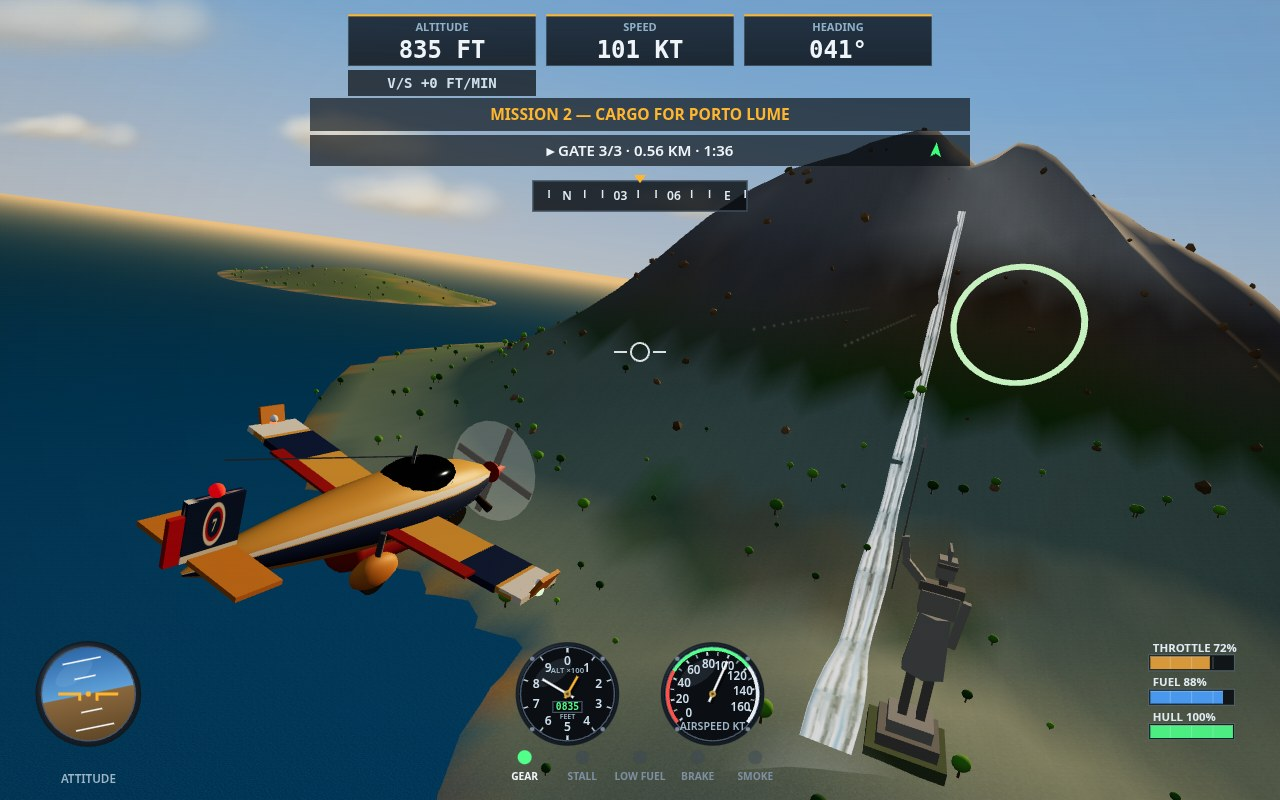
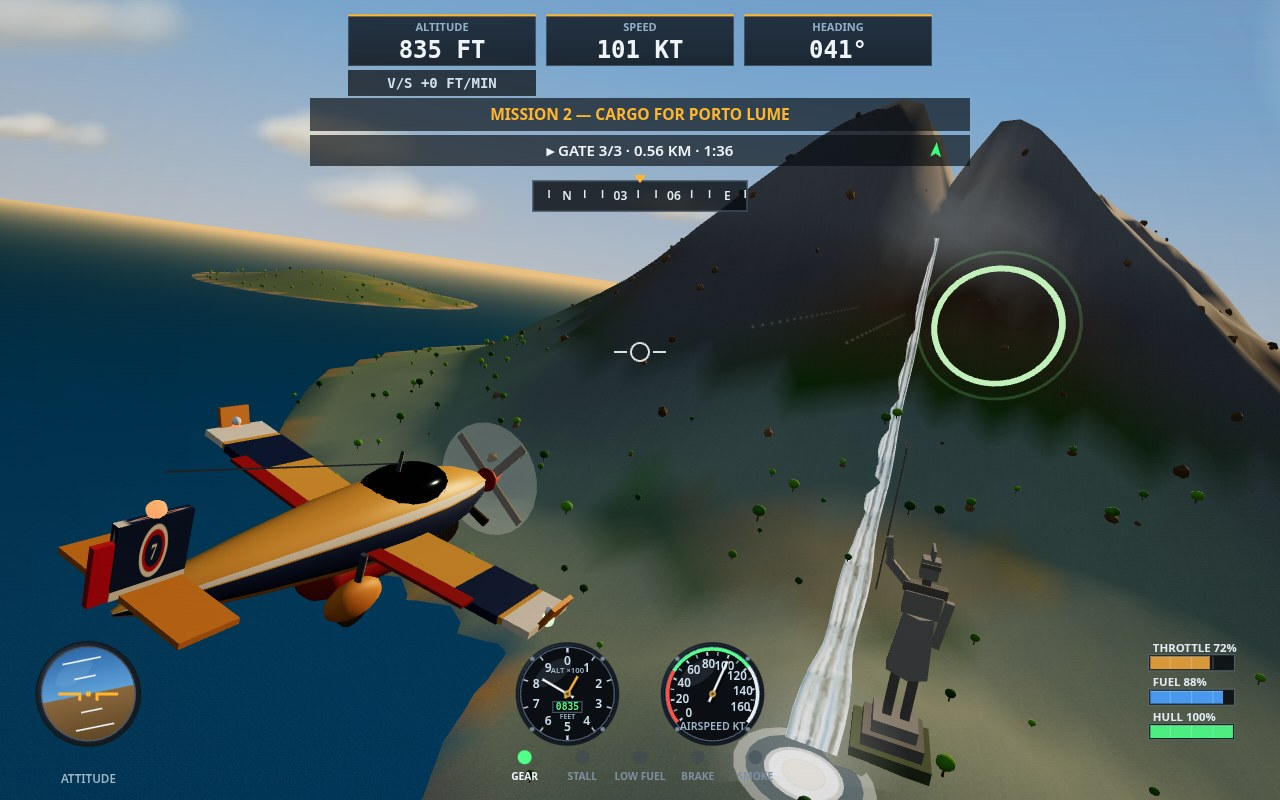
v21 last residuals: bite the skyline at thumbnail size, un-shrink the cargo Petrel, surface the plunge pool — velaSkyline teeth now bite both ways (crests 0.24, gullies carved -0.105, wider envelope) with a summit-gated SE-rim band so the cover's peak reads jagged in the 300px shrink, not just at fu

diff --git a/game/src/renderer-3d.js b/game/src/renderer-3d.js
@@ -348,9 +348,9 @@ export function buildTerrainMesh(detailTex) {
       const ao = (1 - Math.min(0.32, hollow * 0.011)) * (0.95 + 0.05 * Math.min(1, h / 120));
       const sunFace = normals.getX(i) * SUN.x + normals.getY(i) * SUN.y + normals.getZ(i) * SUN.z;
       const lit = Math.max(0, sunFace);
-      tmp.multiplyScalar((0.84 + 0.28 * lit + vg * 0.16 * (1 - lit)) * ao);
+      tmp.multiplyScalar((0.84 + 0.28 * lit + vg * 0.23 * (1 - lit)) * ao);
       tmp.lerp(SUN_WARM, lit * lit * 0.15);
-      tmp.lerp(SHADE_COOL, (Math.max(0, -sunFace) * 0.10 + (1 - lit) * 0.03) * (1 - vg * 0.65));
+      tmp.lerp(SHADE_COOL, (Math.max(0, -sunFace) * 0.10 + (1 - lit) * 0.03) * (1 - vg * 0.75));
     }
     colours[i * 3] = tmp.r; colours[i * 3 + 1] = tmp.g; colours[i * 3 + 2] = tmp.b;
   }
@@ -787,6 +787,10 @@ export function buildWaterfall(group, glowTex) {
   // the fall meets the sea, just past the waterline.
   const bx = FALL.x + FALL.dx * 1115;
   const bz = FALL.z + FALL.dz * 1115;
+  // v21: the foot stands on Pilot Islet's slope at the
+  // Guardian's feet, ~35 m up — the pool stack rides the
+  // surface there instead of lying buried at sea level.
+  const gy = visualHeight(bx, bz);
   // v19: a third, small, near-opaque disc at the plunge point —
   // the churn where the water lands, bright enough to read as
   // impact foam rather than a pale patch.
@@ -796,15 +800,34 @@ export function buildWaterfall(group, glowTex) {
       new THREE.MeshBasicMaterial({ color: hexColor(PALETTE.foam), transparent: true, opacity, depthWrite: false }),
     );
     disc.geometry.rotateX(-Math.PI / 2);
-    disc.position.set(bx, y, bz);
+    disc.position.set(bx, gy + y, bz);
     disc.renderOrder = 2;
     group.add(disc);
   }
+  // v21: the churn melted into the pale shore at thumbnail
+  // size, so the pool wears a dark wet-rock collar and a hard
+  // white foam ring over the core — a landing the eye can find.
+  const collar = new THREE.Mesh(
+    new THREE.RingGeometry(17, 28, 22),
+    new THREE.MeshBasicMaterial({ color: 0x2f3f4a, transparent: true, opacity: 0.5, depthWrite: false }),
+  );
+  collar.geometry.rotateX(-Math.PI / 2);
+  collar.position.set(bx, gy + 0.35, bz);
+  collar.renderOrder = 2;
+  group.add(collar);
+  const foamRing = new THREE.Mesh(
+    new THREE.RingGeometry(10.5, 16.5, 22),
+    new THREE.MeshBasicMaterial({ color: 0xffffff, transparent: true, opacity: 0.95, depthWrite: false, side: THREE.DoubleSide }),
+  );
+  foamRing.geometry.rotateX(-Math.PI / 2);
+  foamRing.position.set(bx, gy + 0.55, bz);
+  foamRing.renderOrder = 3;
+  group.add(foamRing);
   const mist = new THREE.Sprite(new THREE.SpriteMaterial({
     map: glowTex, color: 0xffffff, transparent: true, opacity: 0.42, depthWrite: false,
   }));
   mist.scale.setScalar(96);
-  mist.position.set(bx, 13, bz);
+  mist.position.set(bx, gy + 10, bz);
   group.add(mist);
   return tex;
 }

diff --git a/game/src/terrain-archipelago.js b/game/src/terrain-archipelago.js
@@ -115,11 +115,20 @@ export function velaSkyline(x, z, h) {
   // The relief lives on the strait side only: it fades out
   // across the summit's south shoulder, so the face the Porto
   // Lume approach looks at keeps its v19 shape exactly.
-  const azg = Math.max(0, Math.min(1, (0.10 - Math.atan2(dx, dz)) / 0.12));
-  const teeth = Math.pow(0.5 + 0.5 * Math.sin(Math.atan2(dx, dz) * 6 + 2.1), 2)
-    * Math.exp(-((r / (VELA.radius * 0.80)) ** 2)) * Math.min(1, r / 130) * azg;
-  const shoulder = Math.exp(-(((x - SHOULDER_X) ** 2 + (z - SHOULDER_Z) ** 2) / (VELA.radius * 0.30) ** 2)) * azg;
-  return gate * (0.12 * teeth + 0.13 * shoulder);
+  const az = Math.atan2(dx, dz);
+  const azg = Math.max(0, Math.min(1, (0.10 - az) / 0.12));
+  // v21: at thumbnail size v20's bumps sat under the outline —
+  // the teeth now bite both ways (crests up, gullies carved
+  // into the dome between them), and a second gate lets them
+  // ring the summit's SE rim, the cover's long right skyline,
+  // above the snowline only, where the approach never reads.
+  const azs = Math.min(1, Math.max(0, (h - 190) / 70))
+    * Math.max(0, Math.min(1, (az + 0.06) / 0.10)) * Math.max(0, Math.min(1, (1.80 - az) / 0.20));
+  const wave = Math.sin(az * 6 + 2.1);
+  const teeth = (0.24 * Math.pow(0.5 + 0.5 * wave, 2) - 0.105 * Math.pow(0.5 - 0.5 * wave, 2))
+    * Math.exp(-((r / (VELA.radius * 0.95)) ** 2)) * Math.min(1, r / 130) * Math.max(azg, azs);
+  const shoulder = Math.exp(-(((x - SHOULDER_X) ** 2 + (z - SHOULDER_Z) ** 2) / (VELA.radius * 0.27) ** 2)) * azg;
+  return gate * (teeth + 0.16 * shoulder);
 }
 
 function ridgeHeight(x, z, h) {

diff --git a/game/src/shots.js b/game/src/shots.js
@@ -50,7 +50,10 @@ export function applyShotScene(game, name) {
   // v20: the camera rides higher (up 3.4 -> 6.2), pitching the
   // track down the flank so the waterfall's plunge pool — churn,
   // mist and all — lands inside the frame instead of below it.
-  const PROFILE_TRACK = { side: 11, up: 6.2, aim: 18, back: 11, aimSide: -2 };
+  // v21: that height cost the Petrel her size, so the track
+  // closes in (side/back 11 -> 9.5) and keeps most of the pitch
+  // (up 5.6): the plane is v19-big again and the pool stays in.
+  const PROFILE_TRACK = { side: 9.5, up: 5.6, aim: 18, back: 9.5, aimSide: -2 };
   if (name === 'approach') {
     // Leg 3: the waterfront final over the rooftops of Porto Lume.
     // (v16 scouting tried starting further out; the town shrank to
